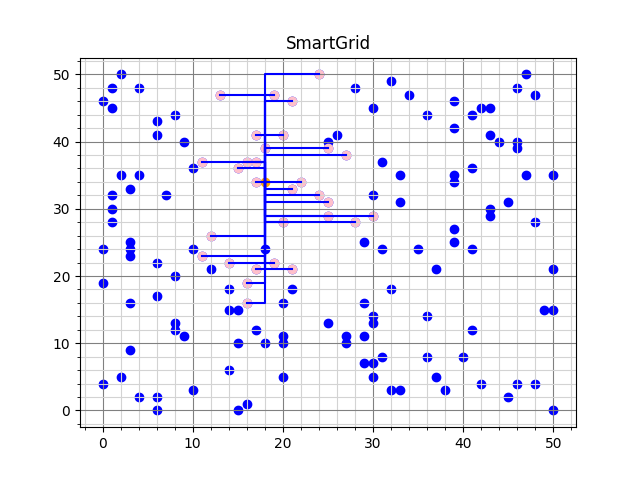
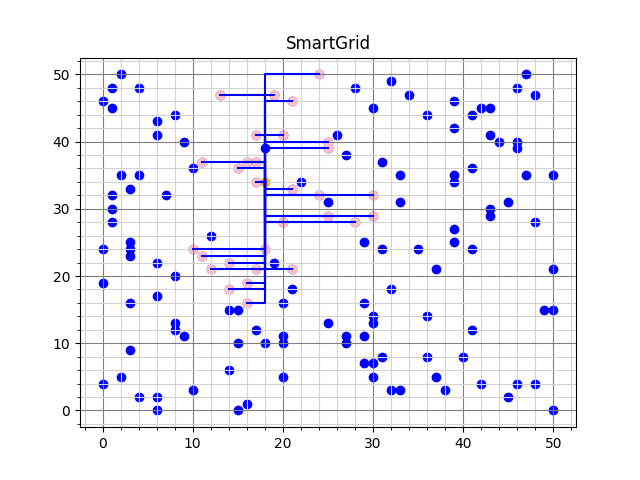
adapted main

diff --git a/main.py b/main.py
@@ -9,6 +9,7 @@ import copy
 
 if __name__ == "__main__":
     district_number = "3"
+    greedy_version = 1
 
     battery_file = (f"data/Huizen&Batterijen/district_{district_number}/district-{district_number}_batteries.csv")
     #battery_file = (f"SmartGrid/data/Huizen&Batterijen/district_{district_number}/district-{district_number}_batteries.csv")
@@ -31,84 +32,91 @@ if __name__ == "__main__":
         # simanneal_cable_to_cable = pickle.load(handle)
 
     # --------------------------- baseline --------------------------
-    # baseline_costs = list()
-    # baseline1 = baseline.Baseline(grid1)
-    # baseline1.run()
-    # # best_base = copy.deepcopy(baseline1)
+    if greedy_version == "baseline":
+        print('Running baseline version..')
+        baseline_costs = list()
+        baseline1 = baseline.Baseline(grid1)
+        baseline1.run()
+        # best_base = copy.deepcopy(baseline1)
 
-    # for i in range(1):
-    #     baseline1 = baseline.Baseline(grid1)
-    #     baseline1.run()
-    #     # print(f"i: {i}, cost: {best_base.grid.calc_cost()}")
+        for i in range(1):
+            baseline1 = baseline.Baseline(grid1)
+            baseline1.run()
+            # print(f"i: {i}, cost: {best_base.grid.calc_cost()}")
 
-    #     # if baseline1.grid.calc_cost() < best_base.grid.calc_cost():
-    #     #     best_base = copy.deepcopy(baseline1)
+            # if baseline1.grid.calc_cost() < best_base.grid.calc_cost():
+            #     best_base = copy.deepcopy(baseline1)
 
-    #     baseline_costs.append(baseline1.grid.calc_cost())
-    #     # if baseline1.grid.is_valid():
-    #     #     print("hurray")
-    
-    # visualise_costs.visualise_costs(baseline_costs, "random")
+            baseline_costs.append(baseline1.grid.calc_cost())
+            # if baseline1.grid.is_valid():
+            #     print("hurray")
+        
+        visualise_costs.visualise_costs(baseline_costs, "random")
 
-    # file_name = f"SmartGrid/data/solutions/best_baseline.pickle"
+        # file_name = f"SmartGrid/data/solutions/best_baseline.pickle"
 
-    # with open(file_name, 'wb') as handle:
-    #     pickle.dump(best_base, handle)
+        # with open(file_name, 'wb') as handle:
+        #     pickle.dump(best_base, handle)
     
     # --------------------------- original greedy--------------------------
-    greedy1_costs = list()
-    greedy1 = original_greedy.Greedy(grid1)
-    greedy1.run()
-    count = 0
-    best_greedy = copy.deepcopy(greedy1)
-
-    for i in range(100):
+    if greedy_version == 1:
+        print('running Greedy version 1..')
+        greedy1_costs = list()
         greedy1 = original_greedy.Greedy(grid1)
         greedy1.run()
-        # print(f"i: {i}, cost: {best_greedy.grid.calc_cost()}")
+        count = 0
+        best_greedy = copy.deepcopy(greedy1)
 
-        if greedy1.grid.calc_cost() < best_greedy.grid.calc_cost():
-            best_greedy = copy.deepcopy(greedy1)
-        if greedy1.grid.is_valid():
-            count += 1
+        for i in range(100):
+            greedy1 = original_greedy.Greedy(grid1)
+            greedy1.run()
+            # print(f"i: {i}, cost: {best_greedy.grid.calc_cost()}")
 
-        greedy1_costs.append(greedy1.grid.calc_cost())
-    print(count)
+            if greedy1.grid.calc_cost() < best_greedy.grid.calc_cost():
+                best_greedy = copy.deepcopy(greedy1)
+            if greedy1.grid.is_valid():
+                count += 1
 
-    visualise_costs.visualise_costs(greedy1_costs, "greedy1")
-    # for battery in best_greedy.grid.batteries.values():
-    #     print('battery:', battery.id, battery.get_cum_output(), battery.capacity_left())
-    # file_name = f"SmartGrid/data/solutions/best_greedy.pickle"
+            greedy1_costs.append(greedy1.grid.calc_cost())
+        print(count)
+        best_grid = best_greedy.grid
+        visualise_costs.visualise_costs(greedy1_costs, "greedy1")
+        # for battery in best_greedy.grid.batteries.values():
+        #     print('battery:', battery.id, battery.get_cum_output(), battery.capacity_left())
+        # file_name = f"SmartGrid/data/solutions/best_greedy.pickle"
 
-    # with open(file_name, 'wb') as handle:
-    #     pickle.dump(best_greedy, handle)
+        # with open(file_name, 'wb') as handle:
+        #     pickle.dump(best_greedy, handle)
 
     # --------------------------- greedy 2 --------------------------
-    # greedy2_costs = list()
-    # count = 0
-    # best_cost = 70000
-    # for i in range(100):
-    #     greedy2 = greedy.Greedy(grid1)
-    #     greedy2.run_greedy()
-    #     # fixed_greedy = fix_greedy.Fix_greedy(greedy2.grid)
-    #     # fixed_greedy.run3()
-    #     if greedy2.grid.is_valid():
-    #         count += 1
-    #         if greedy2.grid.calc_cost() < best_cost:
-    #             best_grid = greedy2.grid
-    #             best_cost = greedy2.grid.calc_cost()
-    #     greedy2_costs.append(greedy2.grid.calc_cost())
-    # print(count)
-    # print(best_cost)
-    # # for battery in best_grid.batteries.values():
-    # #     print('battery:', battery.id, battery.get_cum_output(), battery.capacity_left())
-    # #     if battery.id == 1:
-    # #         for house in battery.houses.values():
-    # #             print(house.cable.x, house.cable.y)
-    # visualise_costs.visualise_costs(greedy2_costs, "greedy2")
+    if greedy_version == 2:
+        print('Running Greedy version 2..')
+        greedy2_costs = list()
+        count = 0
+        best_cost = 70000
+        for i in range(100):
+            greedy2 = greedy.Greedy(grid1)
+            greedy2.run_greedy()
+            # fixed_greedy = fix_greedy.Fix_greedy(greedy2.grid)
+            # fixed_greedy.run3()
+            if greedy2.grid.is_valid():
+                count += 1
+                if greedy2.grid.calc_cost() < best_cost:
+                    best_grid = greedy2.grid
+                    best_cost = greedy2.grid.calc_cost()
+            greedy2_costs.append(greedy2.grid.calc_cost())
+        print(count)
+        print(best_cost)
+        # # for battery in best_grid.batteries.values():
+        # #     print('battery:', battery.id, battery.get_cum_output(), battery.capacity_left())
+        # #     if battery.id == 1:
+        # #         for house in battery.houses.values():
+        # #             print(house.cable.x, house.cable.y)
+        visualise_costs.visualise_costs(greedy2_costs, "greedy2")
 
     # --------------------------- visualisation --------------------------
-    visualise_cables.visualise_apart(best_greedy.grid, district_number)
+    visualise_cables.visualise_apart(best_grid, district_number)
+    visualise_cables.visualise(best_grid, district_number)
 
         # --------------------------- greedy - each house to closest battery--------------------------
     # greedy3_costs = list()

diff --git a/code/visualisations/visualise_cables.py b/code/visualisations/visualise_cables.py
@@ -5,6 +5,9 @@ from code.classes import grid, house, battery, cable
 
 
 def visualise(grid, district_number): 
+    """
+    Visualise the connections of each battery in one grid
+    """
 
     # load data files
     district_number = district_number
@@ -47,9 +50,8 @@ def visualise(grid, district_number):
 
     # plt.legend()
     plt.show()
-    grid_name = "sim_anneal"
-    plt.savefig(f"SmartGrid/docs/cable_visualisation_{grid_name}.png")
-    
+
+    # plt.savefig(f"SmartGrid/docs/cable_visualisation_{grid_name}.png")  
     plt.savefig("docs/cable_visualisation.png")
 
 def visualise_apart(grid, district_number):
